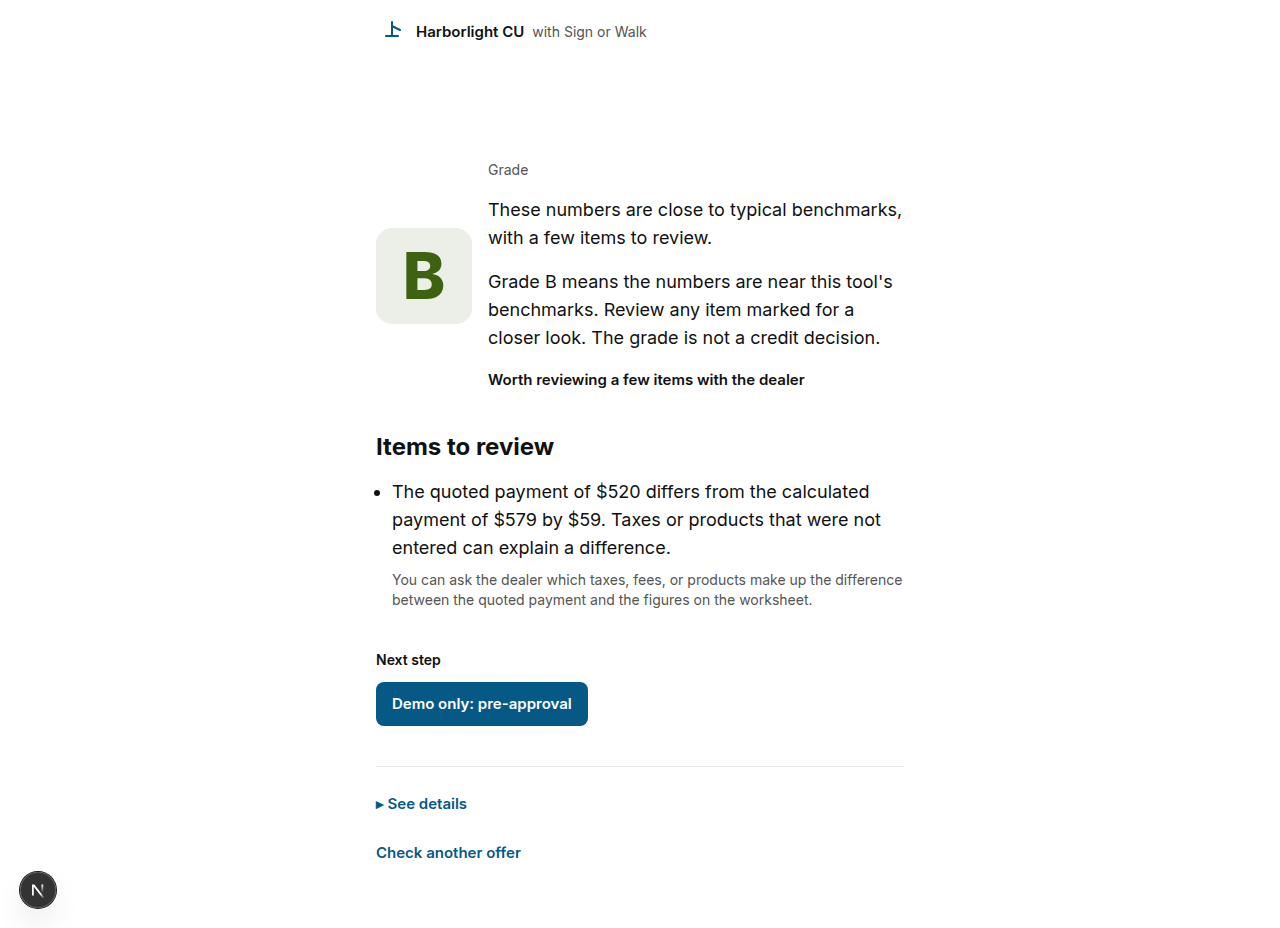
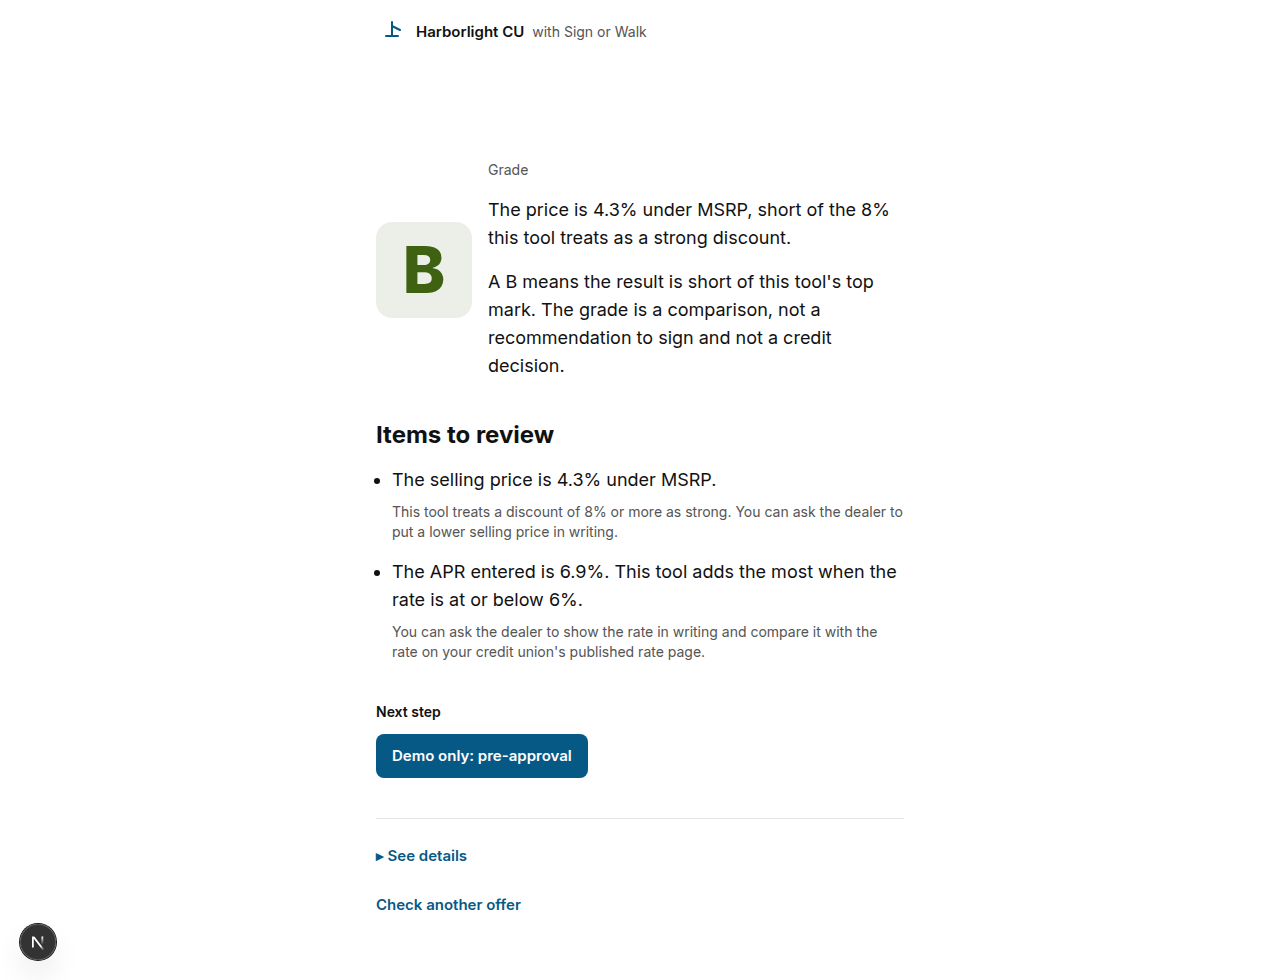
Explain a B with the figures that kept it short of an A.
Grade lines no longer repeat each other, a clean B lists the calculated shortfall, and the trial member link uses the request host.

diff --git a/src/cu/templates/tp-1.0.0/en.ts b/src/cu/templates/tp-1.0.0/en.ts
@@ -64,12 +64,37 @@ export const HEADLINES = {
 } as const;
 
 export const GRADE_EXPLANATIONS = {
-  GE_A: t('GE_A', 'Grade A means the numbers entered compare favorably with this tool\'s benchmarks. The grade is a comparison, not a recommendation to sign and not a credit decision.'),
-  GE_B: t('GE_B', 'Grade B means the numbers are near this tool\'s benchmarks. Review any item marked for a closer look. The grade is not a credit decision.'),
-  GE_B_NEAR: t('GE_B_NEAR', 'Grade B means the numbers are near this tool\'s benchmarks. The grade is a comparison, not a recommendation to sign and not a credit decision.'),
-  GE_C: t('GE_C', 'Grade C means some numbers sit outside this tool\'s benchmarks. Reviewing those items with the dealer is a reasonable next step. The grade is not a credit decision.'),
-  GE_D: t('GE_D', 'Grade D means several numbers sit well outside this tool\'s benchmarks. The grade compares figures you entered. It is not a credit decision and not an instruction.'),
-  GE_F: t('GE_F', 'Grade F means the combination of numbers compares unfavorably with this tool\'s benchmarks. You may want to ask for a revised written offer. The grade is not a credit decision.'),
+  GE_A: t('GE_A', 'An A is this tool\'s top mark. Nothing entered pulled the result down. This is a comparison, not a recommendation to sign and not a credit decision.'),
+  GE_B: t('GE_B', 'A B means the result is short of this tool\'s top mark. The items below are what the rules calculated. The grade is not a credit decision.'),
+  GE_B_NEAR: t('GE_B_NEAR', 'A B means the result is short of this tool\'s top mark. The grade is a comparison, not a recommendation to sign and not a credit decision.'),
+  GE_C: t('GE_C', 'A C means the gaps are wider than on a B. Take the items below to the dealer. The grade is not a credit decision.'),
+  GE_D: t('GE_D', 'A D means the gaps are wide. The grade compares the figures you entered. It is not a credit decision and not an instruction.'),
+  GE_F: t('GE_F', 'An F is this tool\'s lowest mark. You may want to ask for a revised written offer. The grade is not a credit decision.'),
+} as const;
+
+/** Why a grade stopped short of A when no flag fired. Thresholds match the rules engine. */
+export const HOLDBACKS = {
+  HB_APR_HEAD: t('HB_APR_HEAD', 'The APR entered is {apr}, above the 6% level this tool treats as strong.', ['apr']),
+  HB_APR_ISSUE: t('HB_APR_ISSUE', 'The APR entered is {apr}. This tool adds the most when the rate is at or below 6%.', ['apr']),
+  HB_APR_ACTION: t('HB_APR_ACTION', 'You can ask the dealer to show the rate in writing and compare it with the rate on your credit union\'s published rate page.'),
+  HB_DISCOUNT_HEAD: t('HB_DISCOUNT_HEAD', 'The price is {discountPct} under MSRP, short of the 8% this tool treats as a strong discount.', ['discountPct']),
+  HB_DISCOUNT_ISSUE: t('HB_DISCOUNT_ISSUE', 'The selling price is {discountPct} under MSRP.', ['discountPct']),
+  HB_DISCOUNT_ACTION: t('HB_DISCOUNT_ACTION', 'This tool treats a discount of 8% or more as strong. You can ask the dealer to put a lower selling price in writing.'),
+  HB_RATE_MISSING_HEAD: t('HB_RATE_MISSING_HEAD', 'No APR was entered, so the rate could not move this to the top mark.'),
+  HB_RATE_MISSING_ISSUE: t('HB_RATE_MISSING_ISSUE', 'APR was left blank.'),
+  HB_RATE_MISSING_ACTION: t('HB_RATE_MISSING_ACTION', 'You can add the APR from the worksheet and check the offer again.'),
+  HB_PRICE_MISSING_HEAD: t('HB_PRICE_MISSING_HEAD', 'Selling price or MSRP was left blank, so the price comparison could not raise this grade.'),
+  HB_PRICE_MISSING_ISSUE: t('HB_PRICE_MISSING_ISSUE', 'Selling price or MSRP was left blank.'),
+  HB_PRICE_MISSING_ACTION: t('HB_PRICE_MISSING_ACTION', 'You can add both numbers from the worksheet and check the offer again.'),
+  HB_LIMITED_HEAD: t('HB_LIMITED_HEAD', 'Only a few figures were entered, so this stays short of the top mark.'),
+  HB_LIMITED_ISSUE: t('HB_LIMITED_ISSUE', 'Fewer than three figures were entered.'),
+  HB_LIMITED_ACTION: t('HB_LIMITED_ACTION', 'Adding the price, rate, and term from the worksheet makes the comparison closer.'),
+  HB_RESIDUAL_HEAD: t('HB_RESIDUAL_HEAD', 'The residual is {residualPct} of MSRP, short of the 55% this tool treats as strong.', ['residualPct']),
+  HB_RESIDUAL_ISSUE: t('HB_RESIDUAL_ISSUE', 'The residual is {residualPct} of MSRP.', ['residualPct']),
+  HB_RESIDUAL_ACTION: t('HB_RESIDUAL_ACTION', 'This tool treats a residual of 55% or more as strong. You can ask how the mileage limit changes that percent.'),
+  HB_SHORT_HEAD: t('HB_SHORT_HEAD', 'These figures stay short of this tool\'s top mark.'),
+  HB_SHORT_ISSUE: t('HB_SHORT_ISSUE', 'The figures entered did not reach this tool\'s top mark.'),
+  HB_SHORT_ACTION: t('HB_SHORT_ACTION', 'You can add any blank price, rate, or term from the worksheet and check again.'),
 } as const;
 
 export const SUMMARIES = {
@@ -250,6 +275,7 @@ export const FLAG_COPY: Record<FlagId, { issue: Template; action: Template }> = 
 export const ALL_TEMPLATES: Template[] = [
   ...Object.values(HEADLINES),
   ...Object.values(GRADE_EXPLANATIONS),
+  ...Object.values(HOLDBACKS),
   ...Object.values(SUMMARIES),
   ...Object.values(RECOMMENDATION_LABELS),
   ...Object.values(QUESTIONS),

diff --git a/src/cu/engine/report.ts b/src/cu/engine/report.ts
@@ -6,6 +6,7 @@ import {
   FLAG_COPY,
   GRADE_EXPLANATIONS,
   HEADLINES,
+  HOLDBACKS,
   QUESTIONS,
   RECOMMENDATION_LABELS,
   STRUCTURE_NOTES,
@@ -72,6 +73,47 @@ function has(result: EngineResult, id: FlagId): boolean {
   return result.flags.some(f => f.id === id);
 }
 
+interface GradeNote {
+  id: string;
+  weight: number;
+  headline: Template;
+  issue: Template;
+  action: Template;
+}
+
+/** Factors the rules already score, for a grade that has no flag. */
+function holdbacks(input: EngineInput, result: EngineResult): GradeNote[] {
+  if (result.grade === 'A' || result.flags.length > 0) return [];
+  const notes: GradeNote[] = [];
+  if (result.limitedData) {
+    notes.push({ id: 'limited', weight: 30, headline: HOLDBACKS.HB_LIMITED_HEAD, issue: HOLDBACKS.HB_LIMITED_ISSUE, action: HOLDBACKS.HB_LIMITED_ACTION });
+  }
+  const discount = result.calc.discountPct;
+  if (discount !== undefined && discount >= 1 && discount < 8) {
+    const weight = discount >= 6 ? 4 : discount >= 3 ? 8 : 12;
+    notes.push({ id: 'discount', weight, headline: HOLDBACKS.HB_DISCOUNT_HEAD, issue: HOLDBACKS.HB_DISCOUNT_ISSUE, action: HOLDBACKS.HB_DISCOUNT_ACTION });
+  }
+  if (input.dealType === 'finance' && input.apr !== undefined && input.apr > 6 && input.apr <= 8) {
+    notes.push({ id: 'apr', weight: 7, headline: HOLDBACKS.HB_APR_HEAD, issue: HOLDBACKS.HB_APR_ISSUE, action: HOLDBACKS.HB_APR_ACTION });
+  }
+  if (input.dealType === 'finance' && !(input.apr !== undefined && input.apr > 0)) {
+    notes.push({ id: 'rate-missing', weight: 10, headline: HOLDBACKS.HB_RATE_MISSING_HEAD, issue: HOLDBACKS.HB_RATE_MISSING_ISSUE, action: HOLDBACKS.HB_RATE_MISSING_ACTION });
+  }
+  const priced = input.sellingPrice !== undefined && input.msrp !== undefined && input.msrp > 0;
+  if (!priced) {
+    notes.push({ id: 'price-missing', weight: 12, headline: HOLDBACKS.HB_PRICE_MISSING_HEAD, issue: HOLDBACKS.HB_PRICE_MISSING_ISSUE, action: HOLDBACKS.HB_PRICE_MISSING_ACTION });
+  }
+  const residual = result.calc.residualPercent;
+  if (input.dealType === 'lease' && residual !== undefined && residual >= 50 && residual < 55) {
+    notes.push({ id: 'residual', weight: 6, headline: HOLDBACKS.HB_RESIDUAL_HEAD, issue: HOLDBACKS.HB_RESIDUAL_ISSUE, action: HOLDBACKS.HB_RESIDUAL_ACTION });
+  }
+  if (notes.length === 0) {
+    notes.push({ id: 'short', weight: 1, headline: HOLDBACKS.HB_SHORT_HEAD, issue: HOLDBACKS.HB_SHORT_ISSUE, action: HOLDBACKS.HB_SHORT_ACTION });
+  }
+  notes.sort((a, b) => b.weight - a.weight || a.id.localeCompare(b.id));
+  return notes.slice(0, 2);
+}
+
 function headline(result: EngineResult): Template {
   if (result.grade === 'F') return HEADLINES.HL_F;
   if (has(result, 'FLAG_NEGATIVE_EQUITY')) return HEADLINES.HL_D_EQUITY;
@@ -86,7 +128,6 @@ function headline(result: EngineResult): Template {
   if (['LEASE_ADDONS', 'FIN_ADDONS'].includes(result.archetype)) return HEADLINES.HL_ADDONS;
   if (['LEASE_HIGH_FEES', 'FIN_HIGH_FEES'].includes(result.archetype)) return HEADLINES.HL_C_FEES;
   if (result.grade === 'A') return HEADLINES.HL_A;
-  if (result.grade === 'B' && result.flags.length === 0) return HEADLINES.HL_B_NEAR;
   if (result.grade === 'B') return HEADLINES.HL_B;
   return HEADLINES.HL_C_MIXED;
 }
@@ -243,11 +284,15 @@ export function buildTenantReport(input: EngineInput, creditUnionName: string): 
       : { assessment: 'good' as const, headline: fill(TRADE.posHead, values), details: fill(TRADE.posDetail, values) }
     : null;
 
+  const notes = holdbacks(input, result);
+  const headlineTemplate = result.grade === 'B' && result.flags.length === 0
+    ? notes[0]?.headline ?? HOLDBACKS.HB_SHORT_HEAD
+    : headline(result);
   return {
     grade: result.grade,
     recommendation: result.recommendation,
     recommendationLabel: fill(RECOMMENDATION_LABELS[result.recommendation], values),
-    headline: fill(headline(result), values),
+    headline: fill(headlineTemplate, values),
     gradeExplanation: fill(
       result.grade === 'B' && result.flags.length === 0 ? GRADE_EXPLANATIONS.GE_B_NEAR : GRADE_EXPLANATIONS[`GE_${result.grade}`],
       values,
@@ -259,6 +304,11 @@ export function buildTenantReport(input: EngineInput, creditUnionName: string): 
       id: f.id,
       issue: fill(FLAG_COPY[f.id].issue, values),
       action: fill(FLAG_COPY[f.id].action, values),
+    })),
+    notes: notes.map(note => ({
+      id: note.id,
+      issue: fill(note.issue, values),
+      action: fill(note.action, values),
     })),
     questionsToAsk: fill(questions(result), values),
     tradeIn,

diff --git a/src/app/cu/[tenant]/dashboard/page.tsx b/src/app/cu/[tenant]/dashboard/page.tsx
@@ -4,7 +4,7 @@ import { notFound, redirect } from 'next/navigation';
 import { canOpenTenant, CU_SESSION_COOKIE, verifySession } from '@/cu/auth';
 import { resolveBrand } from '@/cu/brand';
 import { getAggregates, getBranding, getSettings } from '@/cu/cu-store';
-import { deepLink, iframeSnippet, requestOriginFrom } from '@/cu/embed';
+import { deepLink, iframeSnippet, memberOrigin } from '@/cu/embed';
 import { loadCuTenant } from '@/cu/tenant-directory';
 import { resendConfirmAction, saveEmbedOriginsAction, saveLoanLinksAction, saveSettingsAction, sendSummaryAction } from '../../actions';
 import { BrandLockup } from '../../BrandLockup';
@@ -108,9 +108,9 @@ export default async function DashboardPage({
     : query.notice && query.notice !== 'confirm' && query.notice !== 'sent' ? NOTICES[query.notice] : '';
   const trialLine = tenant.trialEndsAt ? trialCopy(tenant.trialEndsAt) : '';
   const sourcePrimary = stored?.primary && /^#[0-9a-fA-F]{6}$/.test(stored.primary) ? stored.primary : tenant.brand.primary;
-  const shareUrl = `https://signorwalk.com/cu/${tenant.id}`;
   const requestHeaders = await headers();
-  const origin = requestOriginFrom(name => requestHeaders.get(name)) ?? 'https://signorwalk.com';
+  const origin = memberOrigin(name => requestHeaders.get(name), process.env.VERCEL_URL);
+  const shareUrl = `${origin}/cu/${tenant.id}`;
   const embedUrl = deepLink(tenant.id, origin);
   const snippet = iframeSnippet(tenant.id, origin);
   const tabs: { id: Section; label: string }[] = [

diff --git a/test/golden.test.ts b/test/golden.test.ts
@@ -55,6 +55,26 @@ test('every golden fixture renders a template report without free text', () => {
   }
 });
 
+test('a typical B names the calculated shortfall instead of repeating the letter', () => {
+  const fixture = cases.find(item => item.name === 'fin-average');
+  assert.ok(fixture);
+  const report = buildTenantReport(fixture.input, 'Harborlight Credit Union');
+  assert.equal(report.grade, 'B');
+  assert.equal(report.itemsToReview.length, 0);
+  assert.ok(report.notes.length >= 1 && report.notes.length <= 2);
+  assert.match(report.headline, /4\.3%/);
+  assert.match(report.headline, /8%/);
+  assert.equal(report.headline.includes(report.gradeExplanation), false);
+  assert.equal(report.gradeExplanation.includes('4.3%'), false);
+  assert.equal(report.gradeExplanation.includes('near this tool'), false);
+  const inline = report.notes.map(note => `${note.issue} ${note.action}`).join(' ');
+  assert.match(inline, /6\.9%/);
+  assert.match(inline, /6%/);
+  const strong = buildTenantReport(cases.find(item => item.name === 'fin-clean-strong')!.input, 'Harborlight Credit Union');
+  assert.equal(strong.grade, 'A');
+  assert.equal(strong.notes.length, 0);
+});
+
 test('free-text fields are dropped and do not appear in the report', () => {
   const report = gradePayload({
     dealType: 'finance',

diff --git a/test/cu-embed.test.ts b/test/cu-embed.test.ts
@@ -9,6 +9,7 @@ import {
   completedMessage,
   deepLink,
   embedTenantId,
+  memberOrigin,
   frameAncestorSources,
   frameAncestorsForPath,
   frameAncestorsToken,
@@ -62,6 +63,19 @@ test('embed CSP allowlist is per tenant and only on the embed route', async () =
   assert.match(await csp('/credit-unions/embed-demo'), /frame-ancestors 'none'/);
   assert.equal(await frameOptions('/credit-unions/embed-demo'), 'DENY');
   assert.match(await csp('/cu/harborlight-cu/dashboard'), /frame-ancestors 'none'/);
+});
+
+test('member links use the request host, then VERCEL_URL', () => {
+  const preview = memberOrigin(() => null, 'signorwalk-git-example.vercel.app');
+  assert.equal(preview, 'https://signorwalk-git-example.vercel.app');
+  const fromHost = memberOrigin(name => {
+    if (name === 'x-forwarded-host') return 'signorwalk-git-example.vercel.app';
+    if (name === 'x-forwarded-proto') return 'https';
+    return null;
+  }, 'other.vercel.app');
+  assert.equal(fromHost, 'https://signorwalk-git-example.vercel.app');
+  assert.equal(memberOrigin(() => null, ''), 'https://signorwalk.com');
+  assert.equal(memberOrigin(() => null, 'not a host'), 'https://signorwalk.com');
 });
 
 test('embed messages are namespaced and carry only height or a grade letter', () => {

diff --git a/src/cu/embed.ts b/src/cu/embed.ts
@@ -28,6 +28,19 @@ export type EmbedDecision =
 
 const FRAMED = new Set(['iframe', 'frame', 'embed', 'object']);
 
+/** Public site origin for member links. Request host first, then VERCEL_URL, then production. */
+export function memberOrigin(get: (name: string) => string | null, envUrl?: string | null): string {
+  const fromRequest = requestOriginFrom(get);
+  if (fromRequest) return fromRequest;
+  const raw = (envUrl ?? '').trim();
+  if (raw) {
+    const host = raw.replace(/^https?:\/\//i, '').split('/')[0]?.trim().toLowerCase() ?? '';
+    const origin = host ? `https://${host}` : '';
+    if (origin && isEmbedOrigin(origin)) return origin;
+  }
+  return 'https://signorwalk.com';
+}
+
 export function requestOriginFrom(get: (name: string) => string | null): string | null {
   const host = (get('x-forwarded-host') ?? get('host') ?? '').split(',')[0]?.trim().toLowerCase() ?? '';
   if (!host || /[\s/]/.test(host)) return null;

diff --git a/src/app/cu/[tenant]/CheckForm.tsx b/src/app/cu/[tenant]/CheckForm.tsx
@@ -250,11 +250,10 @@ export function CheckForm({
   }
 
   if (report) {
-    const shown = report.itemsToReview.slice(0, 2);
-    const rest = report.itemsToReview.slice(2);
-    const caption = report.grade === 'A' || shown.length > 0 || report.recommendation !== 'sign'
-      ? report.recommendationLabel
-      : '';
+    const usingFlags = report.itemsToReview.length > 0;
+    const shown = (usingFlags ? report.itemsToReview : report.notes).slice(0, 2);
+    const rest = usingFlags ? report.itemsToReview.slice(2) : [];
+    const caption = report.grade === 'A' || report.recommendation !== 'sign' ? report.recommendationLabel : '';
     const gradeColor = GRADE_FILL[report.grade] ?? '#111111';
     return (
       <div className={embedded

diff --git a/test/cu-platform.test.ts b/test/cu-platform.test.ts
@@ -298,6 +298,8 @@ test('growth copy and the worksheet route stay on the approved words', () => {
   assert.equal(dashboard.includes('Since pilot start'), false);
   assert.match(dashboard, /All time/);
   assert.match(dashboard, /href=\{shareUrl\}/);
+  assert.match(dashboard, /memberOrigin/);
+  assert.equal(dashboard.includes('https://signorwalk.com/cu/${'), false);
   assert.match(dashboard, /Your member link/);
   const memberAt = dashboard.indexOf('Your member link');
   const loanAt = dashboard.indexOf('name="preApprovalUrl"');

diff --git a/src/cu/engine/types.ts b/src/cu/engine/types.ts
@@ -121,6 +121,8 @@ export interface TenantReport {
   archetype: Archetype;
   breakdown: ReportRow[];
   itemsToReview: { id: FlagId; issue: string; action: string }[];
+  /** Shown when no flag fired but the grade is still short of A. Not logged as flags. */
+  notes: { id: string; issue: string; action: string }[];
   questionsToAsk: string;
   tradeIn: { assessment: 'good' | 'warn' | 'bad'; headline: string; details: string } | null;
   stateTaxNote: string | null;
